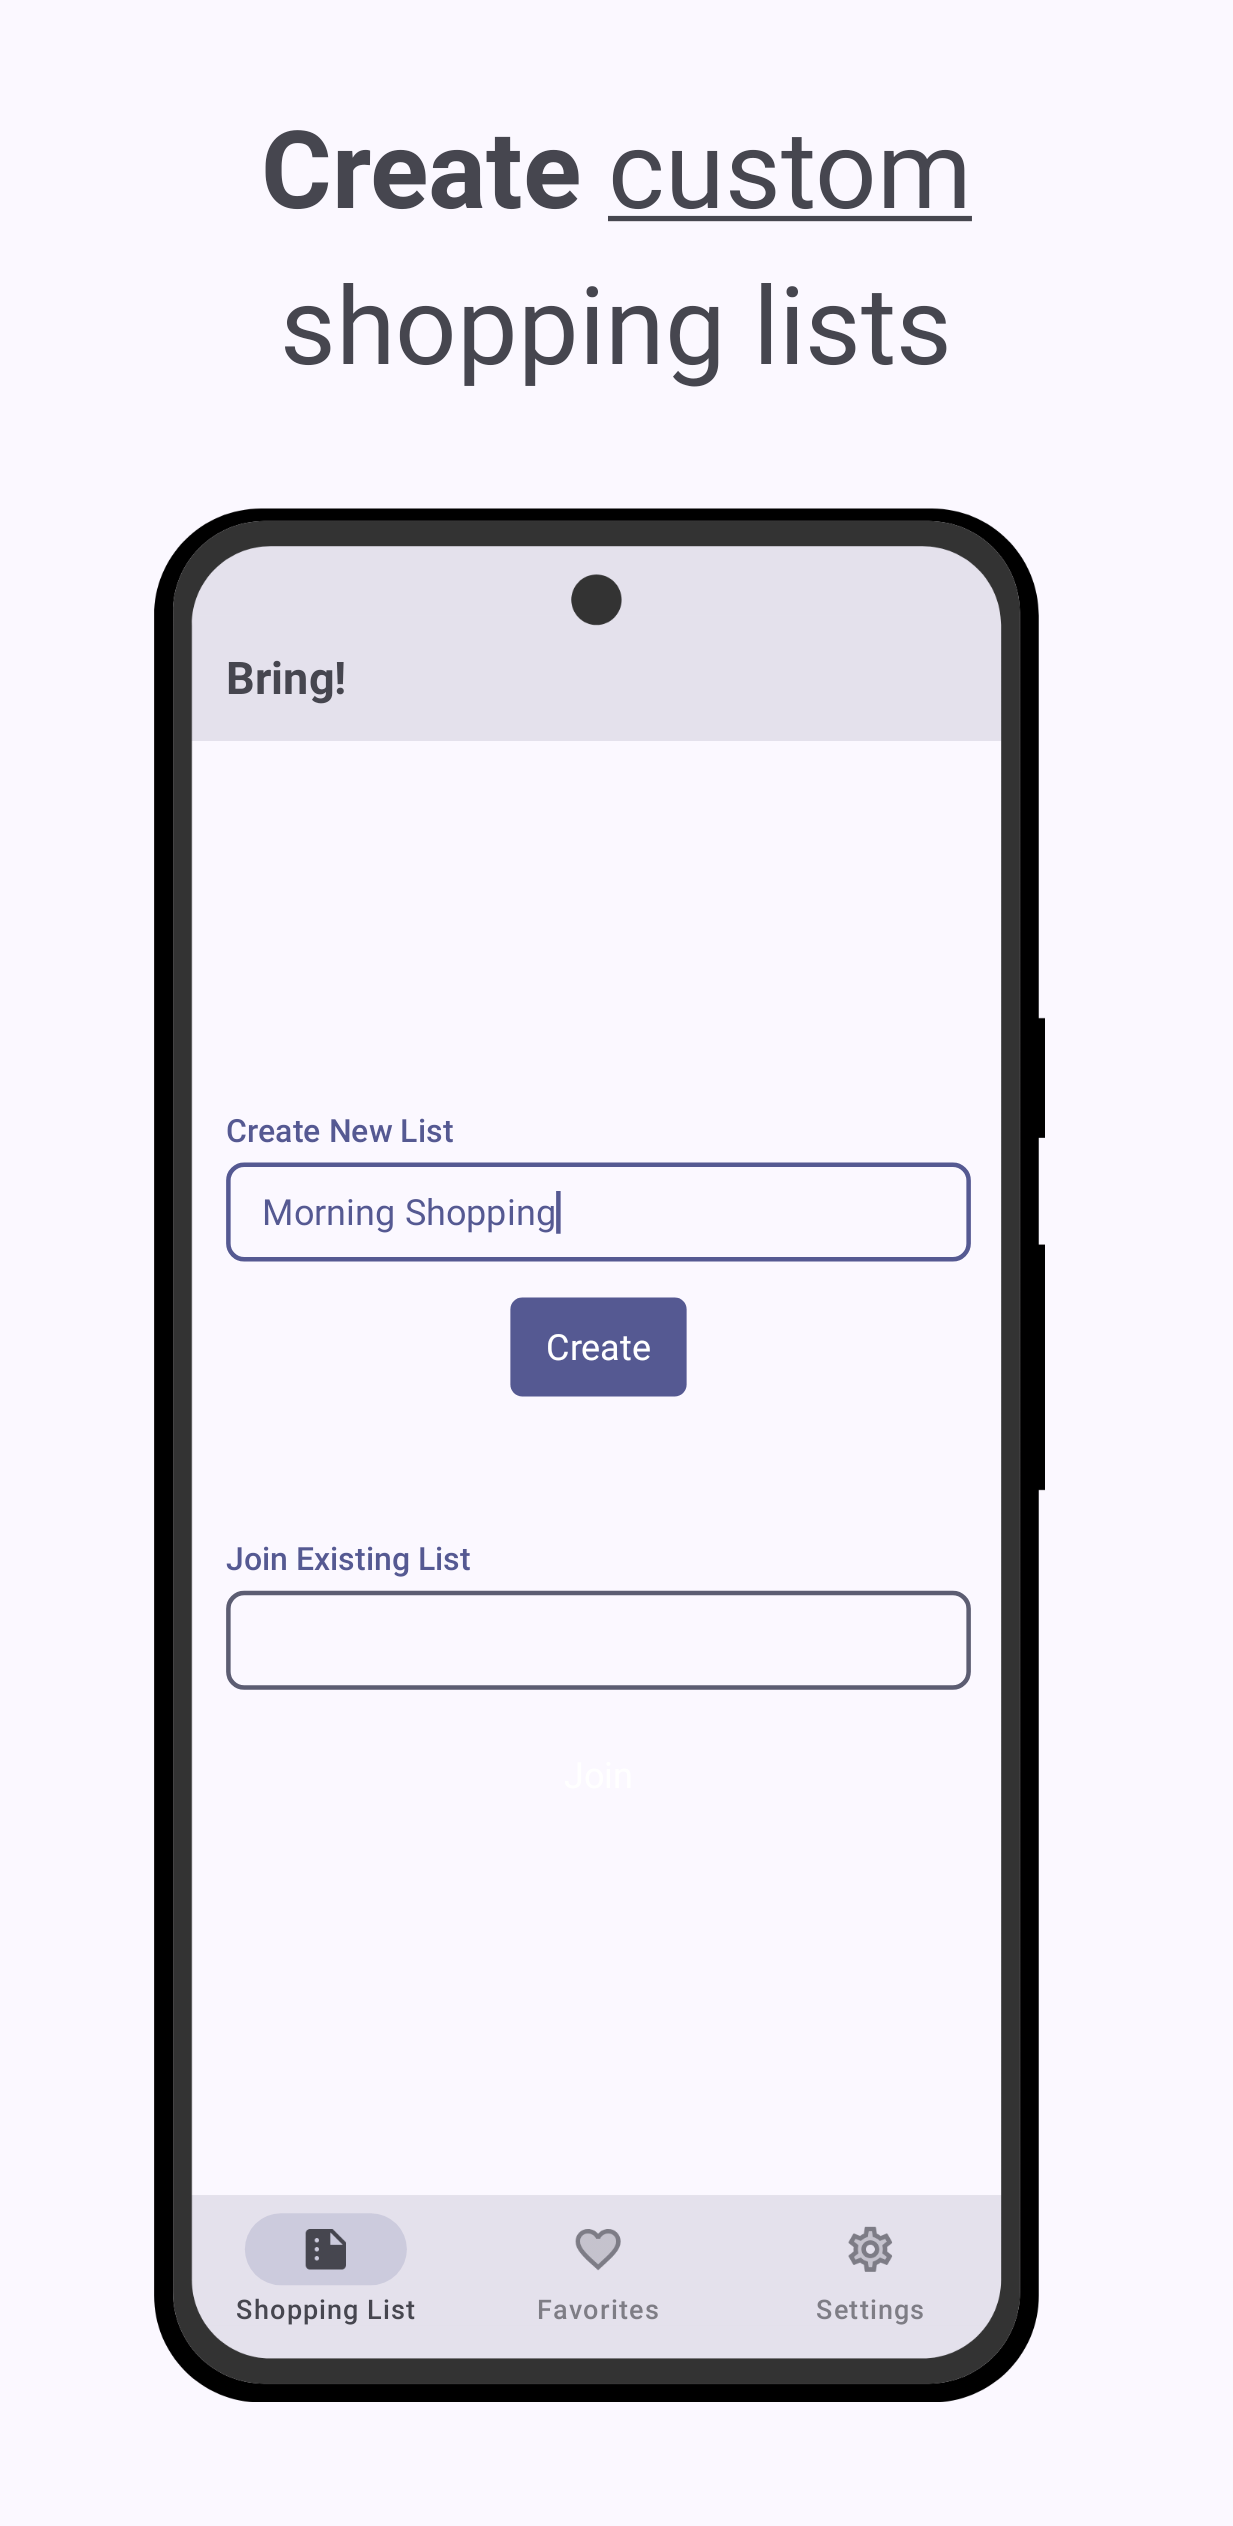
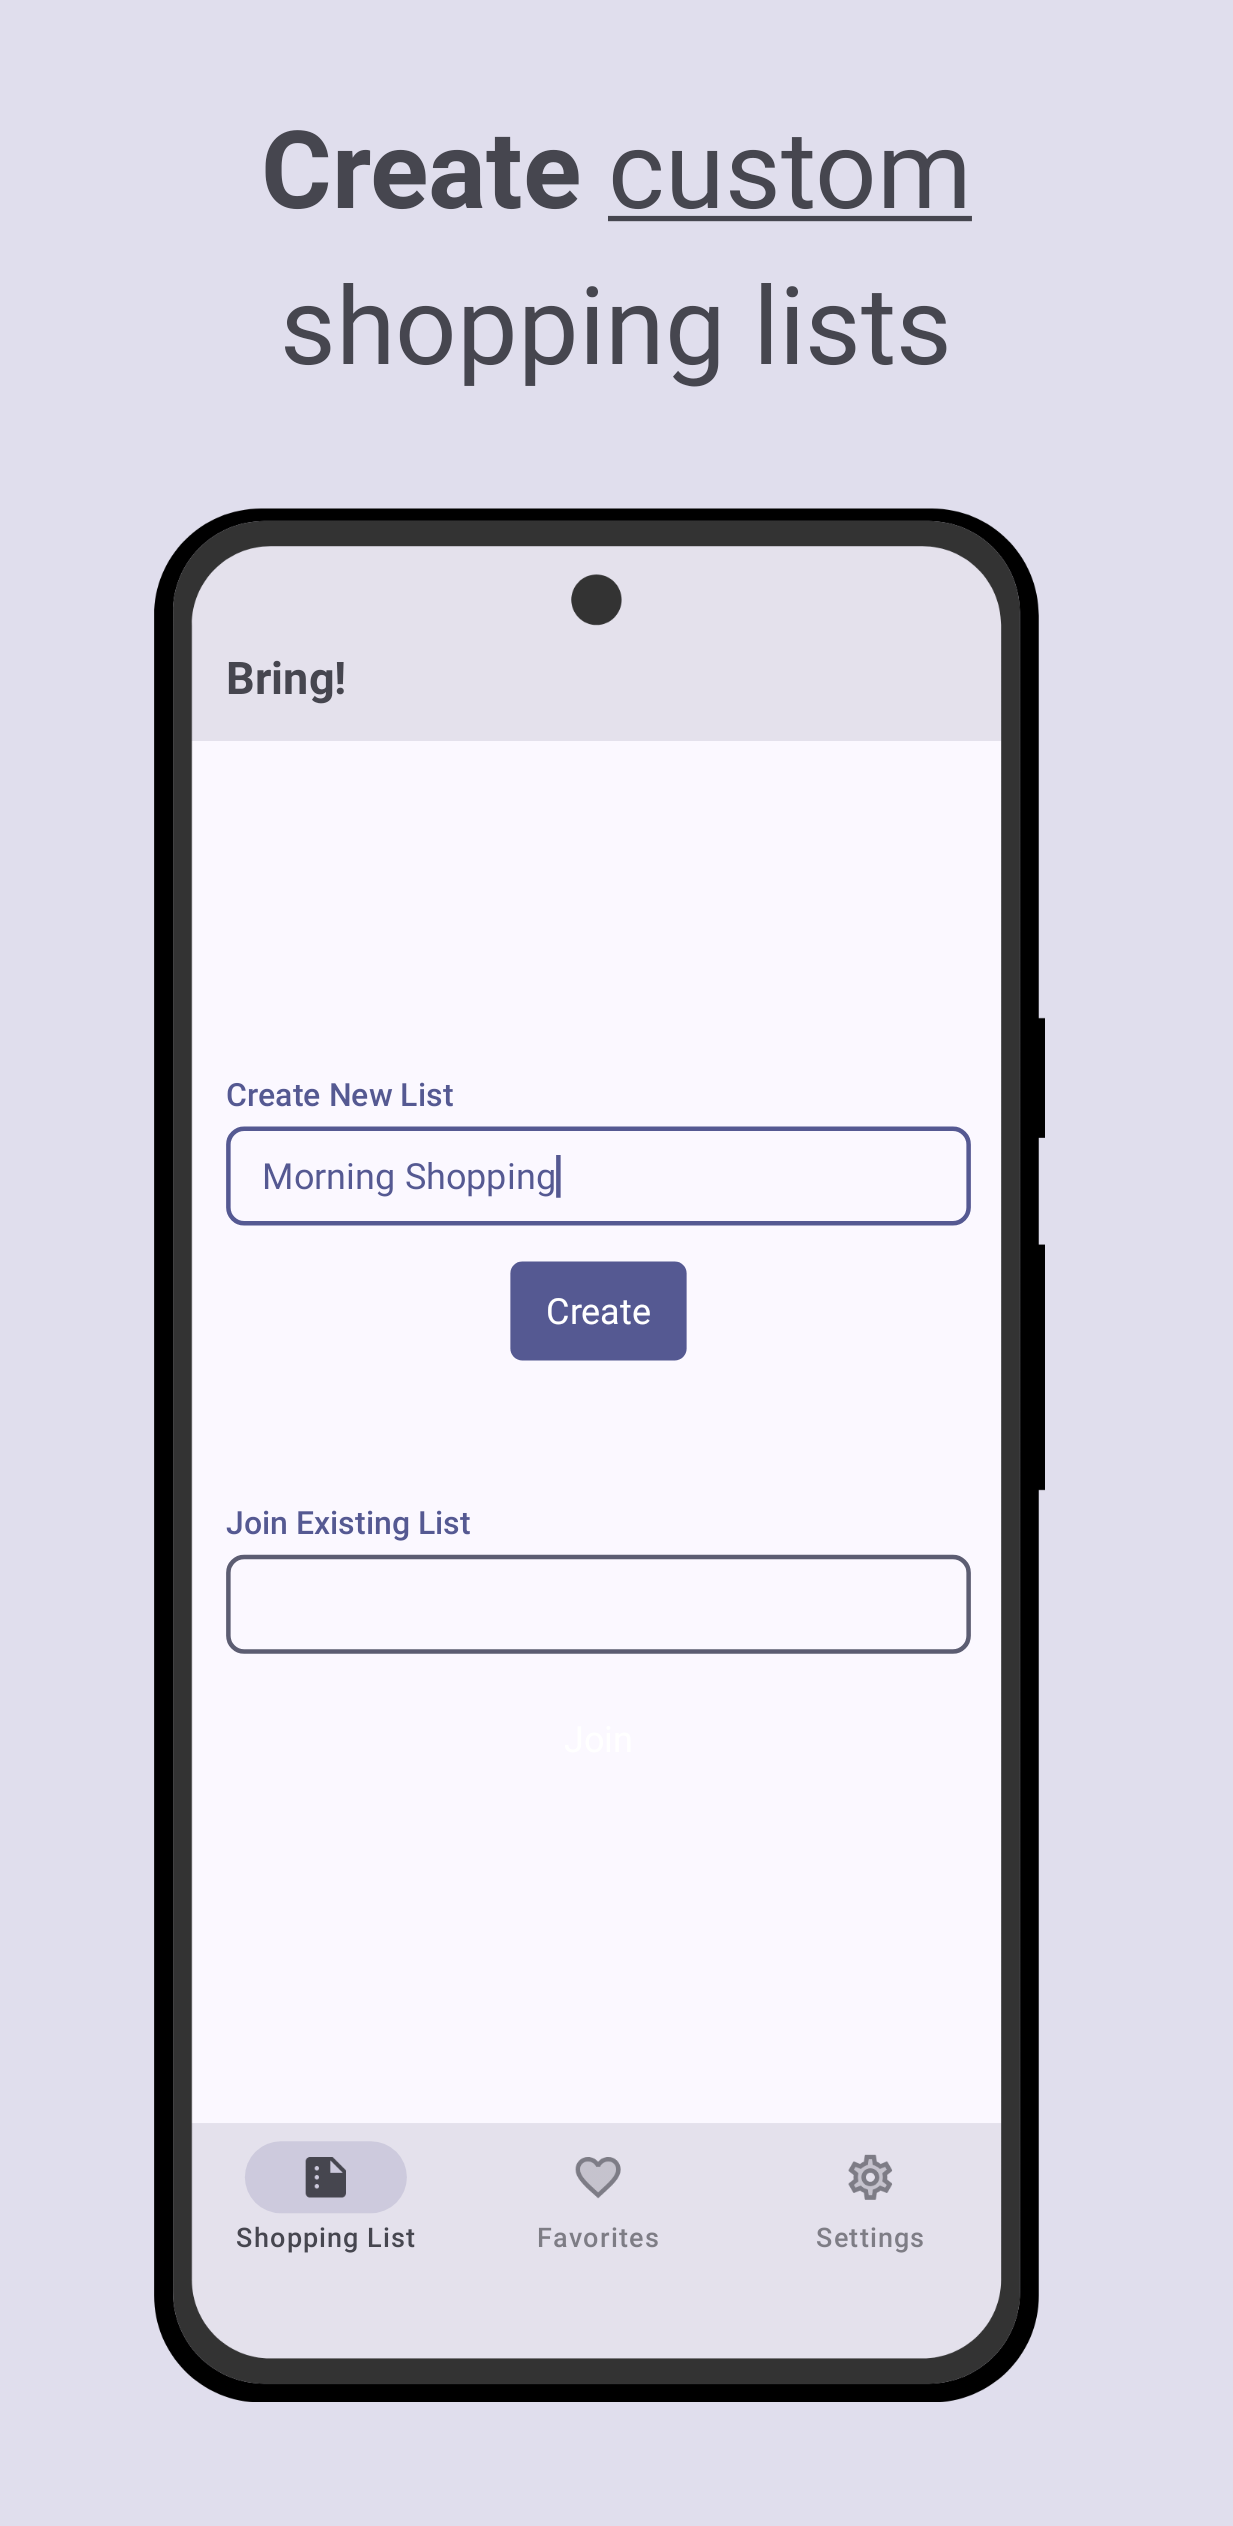
improve screenshot tests and screenshots

diff --git a/composeApp/src/androidUnitTest/kotlin/in/procyk/bring/test/BringAppCreateScreenshotTest.kt b/composeApp/src/androidUnitTest/kotlin/in/procyk/bring/test/BringAppCreateScreenshotTest.kt
@@ -104,7 +104,13 @@ internal abstract class BringAppCreateScreenshotTest {
                         .background(BringAppTheme.colors.surface)
                         .fillMaxSize()
                 ) {
-                    text()
+                    Box(
+                        modifier = Modifier
+                            .background(BringAppTheme.colors.primary.copy(alpha = 0.25f))
+                            .fillMaxSize()
+                    ) {
+                        text()
+                    }
                 }
                 Box(
                     modifier = modifier.then(DefaultSizeModifier)
